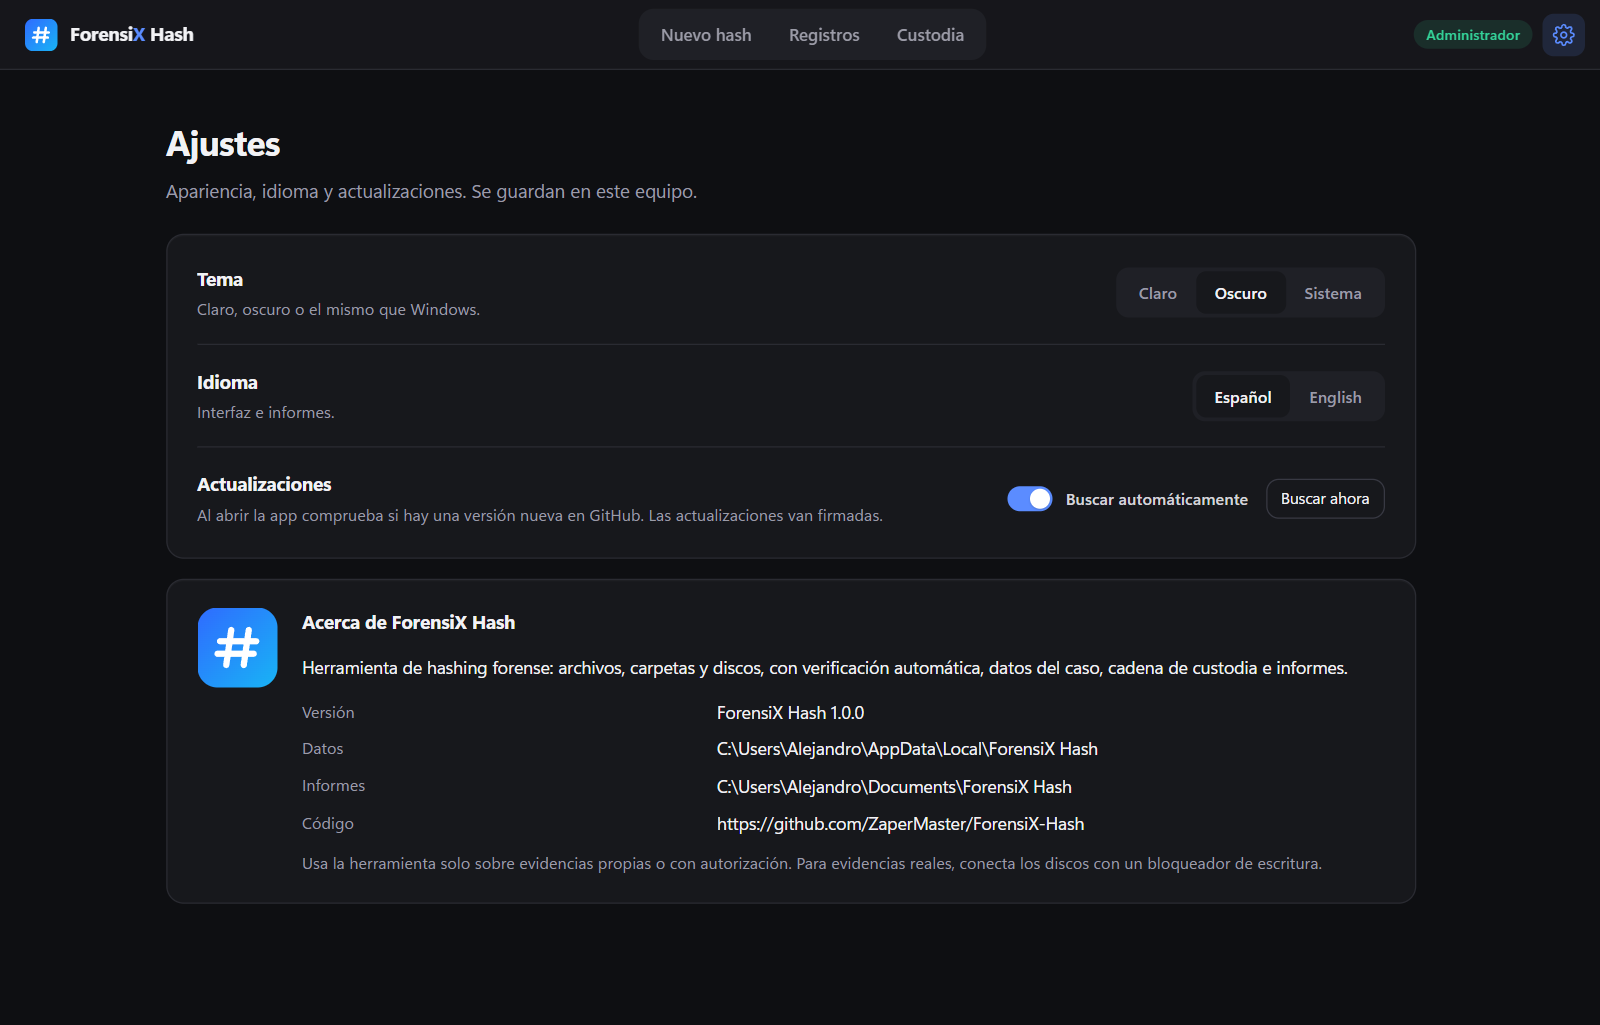
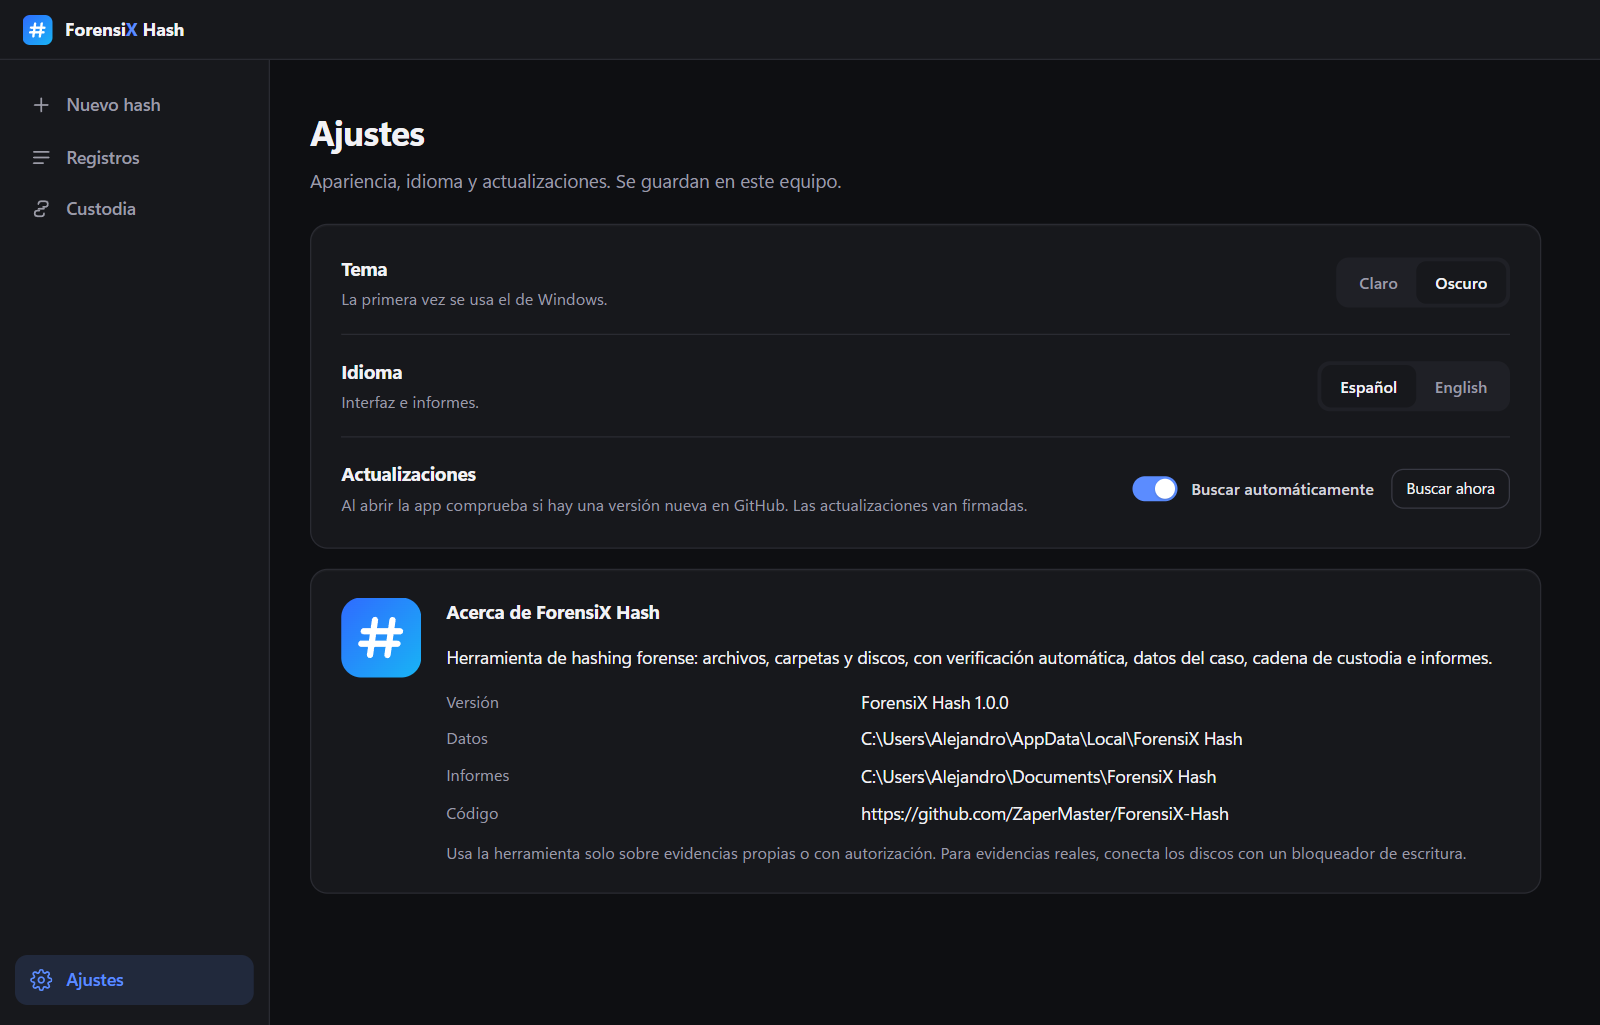
Barra lateral, temas claro/oscuro según Windows y bordes de ventana a juego
- Nuevo hash, Registros y Custodia en una barra lateral; Ajustes abajo.
- Sin la etiqueta de administrador.
- Solo temas claro y oscuro; la primera vez se usa el de Windows.
- La ventana pinta su borde y su fondo con los colores del tema.

diff --git a/web/static/index.html b/web/static/index.html
@@ -7,11 +7,11 @@
   <link rel="icon" href="/static/brand/logo.svg" type="image/svg+xml">
   <link rel="stylesheet" href="/static/css/styles.css">
   <script>
-    // Tema antes de pintar la página, para que no parpadee (claro, oscuro o el del sistema).
+    // Tema antes de pintar la página, para que no parpadee. Sin elegir aún, el de Windows.
     (function () {
-      var theme = "system";
-      try { theme = localStorage.getItem("forensix.theme") || "system"; } catch (e) {}
-      if (theme === "system") theme = matchMedia("(prefers-color-scheme: dark)").matches ? "dark" : "light";
+      var theme = "";
+      try { theme = localStorage.getItem("forensix.theme") || ""; } catch (e) {}
+      if (theme !== "light" && theme !== "dark") theme = matchMedia("(prefers-color-scheme: dark)").matches ? "dark" : "light";
       document.documentElement.dataset.theme = theme;
     })();
   </script>
@@ -29,16 +29,7 @@
     <img class="logo-mark" src="/static/brand/logo.svg" alt="" draggable="false">
     <span class="brand-name">Forensi<b>X</b> Hash</span>
   </div>
-  <nav class="tabs" aria-label="Secciones">
-    <button class="nav active" data-view="new" type="button"><span data-i18n="nav.new">Nuevo hash</span></button>
-    <button class="nav" data-view="history" type="button"><span data-i18n="nav.history">Registros</span></button>
-    <button class="nav" data-view="custody" type="button"><span data-i18n="nav.custody">Custodia</span></button>
-  </nav>
   <div class="titlebar-actions">
-    <span class="admin-pill" id="adminPill" hidden></span>
-    <button class="icon-button nav-settings" data-view="settings" type="button" data-i18n-title="nav.settings" title="Ajustes">
-      <svg viewBox="0 0 24 24"><circle cx="12" cy="12" r="3"/><path d="M19.4 15a1.7 1.7 0 0 0 .3 1.8l.1.1a2 2 0 1 1-2.8 2.8l-.1-.1a1.7 1.7 0 0 0-1.8-.3 1.7 1.7 0 0 0-1 1.5V21a2 2 0 1 1-4 0v-.1a1.7 1.7 0 0 0-1.1-1.5 1.7 1.7 0 0 0-1.8.3l-.1.1a2 2 0 1 1-2.8-2.8l.1-.1a1.7 1.7 0 0 0 .3-1.8 1.7 1.7 0 0 0-1.5-1H3a2 2 0 1 1 0-4h.1a1.7 1.7 0 0 0 1.5-1.1 1.7 1.7 0 0 0-.3-1.8l-.1-.1a2 2 0 1 1 2.8-2.8l.1.1a1.7 1.7 0 0 0 1.8.3H9a1.7 1.7 0 0 0 1-1.5V3a2 2 0 1 1 4 0v.1a1.7 1.7 0 0 0 1 1.5 1.7 1.7 0 0 0 1.8-.3l.1-.1a2 2 0 1 1 2.8 2.8l-.1.1a1.7 1.7 0 0 0-.3 1.8V9a1.7 1.7 0 0 0 1.5 1H21a2 2 0 1 1 0 4h-.1a1.7 1.7 0 0 0-1.5 1z"/></svg>
-    </button>
     <div class="window-controls">
       <button type="button" id="windowMinimize" aria-label="Minimizar"><svg viewBox="0 0 10 10"><path d="M0 5h10"/></svg></button>
       <button type="button" id="windowMaximize" aria-label="Maximizar"><svg viewBox="0 0 10 10"><rect x="0.5" y="0.5" width="9" height="9"/></svg></button>
@@ -55,6 +46,16 @@
 </div>
 
 <div class="layout">
+  <nav class="sidebar" aria-label="Secciones">
+    <button class="nav active" data-view="new" type="button">
+      <svg viewBox="0 0 24 24"><path d="M12 5v14M5 12h14"/></svg><span data-i18n="nav.new">Nuevo hash</span></button>
+    <button class="nav" data-view="history" type="button">
+      <svg viewBox="0 0 24 24"><path d="M4 6h16M4 12h16M4 18h10"/></svg><span data-i18n="nav.history">Registros</span></button>
+    <button class="nav" data-view="custody" type="button">
+      <svg viewBox="0 0 24 24"><path d="M9 7a3 3 0 0 1 3-3h4a3 3 0 0 1 0 6h-2M15 17a3 3 0 0 1-3 3H8a3 3 0 0 1 0-6h2M9 12h6"/></svg><span data-i18n="nav.custody">Custodia</span></button>
+    <button class="nav nav-settings" data-view="settings" type="button">
+      <svg viewBox="0 0 24 24"><circle cx="12" cy="12" r="3"/><path d="M19.4 15a1.7 1.7 0 0 0 .3 1.8l.1.1a2 2 0 1 1-2.8 2.8l-.1-.1a1.7 1.7 0 0 0-1.8-.3 1.7 1.7 0 0 0-1 1.5V21a2 2 0 1 1-4 0v-.1a1.7 1.7 0 0 0-1.1-1.5 1.7 1.7 0 0 0-1.8.3l-.1.1a2 2 0 1 1-2.8-2.8l.1-.1a1.7 1.7 0 0 0 .3-1.8 1.7 1.7 0 0 0-1.5-1H3a2 2 0 1 1 0-4h.1a1.7 1.7 0 0 0 1.5-1.1 1.7 1.7 0 0 0-.3-1.8l-.1-.1a2 2 0 1 1 2.8-2.8l.1.1a1.7 1.7 0 0 0 1.8.3H9a1.7 1.7 0 0 0 1-1.5V3a2 2 0 1 1 4 0v.1a1.7 1.7 0 0 0 1 1.5 1.7 1.7 0 0 0 1.8-.3l.1-.1a2 2 0 1 1 2.8 2.8l-.1.1a1.7 1.7 0 0 0-.3 1.8V9a1.7 1.7 0 0 0 1.5 1H21a2 2 0 1 1 0 4h-.1a1.7 1.7 0 0 0-1.5 1z"/></svg><span data-i18n="nav.settings">Ajustes</span></button>
+  </nav>
   <main id="main">
     <!-- NUEVO HASH -->
     <section class="view active" id="view-new">
@@ -282,11 +283,10 @@
 
       <div class="card settings">
         <div class="setting">
-          <div><h2 data-i18n="settings.theme">Tema</h2><p class="hint" data-i18n="settings.theme_hint">Claro, oscuro o el mismo que Windows.</p></div>
+          <div><h2 data-i18n="settings.theme">Tema</h2><p class="hint" data-i18n="settings.theme_hint">La primera vez se usa el de Windows.</p></div>
           <div class="segmented" id="themeChoice" role="radiogroup">
             <button type="button" data-theme-choice="light" data-i18n="settings.light">Claro</button>
             <button type="button" data-theme-choice="dark" data-i18n="settings.dark">Oscuro</button>
-            <button type="button" data-theme-choice="system" data-i18n="settings.system">Sistema</button>
           </div>
         </div>
         <div class="setting">

diff --git a/web/static/css/styles.css b/web/static/css/styles.css
@@ -75,29 +75,29 @@ svg { width: 18px; height: 18px; fill: none; stroke: currentColor; stroke-width:
 
 /* --- Cabecera --- */
 .titlebar {
-  display: grid; grid-template-columns: 1fr auto 1fr; align-items: center; flex: none;
-  height: 56px; padding-left: 20px; background: var(--titlebar); border-bottom: 1px solid var(--border);
-  backdrop-filter: blur(14px); user-select: none; position: relative; z-index: 5;
+  display: flex; align-items: center; justify-content: space-between; flex: none;
+  height: 48px; padding-left: 18px; background: var(--surface); border-bottom: 1px solid var(--border);
+  user-select: none; position: relative; z-index: 5;
 }
 .brand { display: flex; align-items: center; gap: 10px; }
-.logo-mark { width: 26px; height: 26px; }
-.brand-name { font-weight: 650; font-size: 15px; letter-spacing: -.1px; }
+.logo-mark { width: 24px; height: 24px; }
+.brand-name { font-weight: 650; font-size: 14.5px; letter-spacing: -.1px; }
 .brand-name b { color: var(--accent); font-weight: 750; }
-
-.tabs { display: flex; gap: 2px; padding: 4px; background: var(--surface-2); border-radius: 12px; }
-.nav {
-  border: 0; border-radius: 9px; background: transparent; color: var(--muted);
-  padding: 6px 14px; font-size: 13.5px; font-weight: 500;
-}
-.nav:hover { color: var(--text); }
-.nav.active { background: var(--surface); color: var(--text); box-shadow: var(--shadow-sm), 0 0 0 1px var(--border); }
-
 .titlebar-actions { display: flex; align-items: center; justify-content: flex-end; gap: 8px; padding-right: 12px; height: 100%; }
-.icon-button { width: 34px; height: 34px; padding: 0; display: grid; place-items: center; border-radius: 9px; background: transparent; color: var(--muted); border: 0; }
-.icon-button:hover { background: var(--surface-2); color: var(--text); }
-.icon-button.active { background: var(--accent-soft); color: var(--accent); }
-.admin-pill { font-size: 11.5px; font-weight: 600; padding: 3px 10px; border-radius: 99px; background: var(--warn-soft); color: var(--warn); }
-.admin-pill.on { background: var(--ok-soft); color: var(--ok); }
+
+/* --- Barra lateral --- */
+.sidebar {
+  width: 216px; flex: none; display: flex; flex-direction: column; gap: 2px; padding: 16px 12px;
+  background: var(--surface); border-right: 1px solid var(--border);
+}
+.nav {
+  display: flex; align-items: center; gap: 11px; width: 100%; padding: 9px 12px; text-align: left;
+  border: 0; border-radius: 10px; background: transparent; color: var(--muted); font-size: 14px; font-weight: 500;
+}
+.nav svg { width: 18px; height: 18px; }
+.nav:hover { background: var(--surface-2); color: var(--text); }
+.nav.active { background: var(--accent-soft); color: var(--accent); font-weight: 600; }
+.nav-settings { margin-top: auto; }
 
 .window-controls { display: none; align-self: stretch; margin-right: -12px; margin-left: 4px; }
 .desktop .window-controls { display: flex; }
@@ -398,10 +398,9 @@ table.files td:nth-child(2) { font-variant-numeric: tabular-nums; color: var(--m
 .toast { position: fixed; bottom: 24px; left: 50%; transform: translateX(-50%); background: var(--text); color: var(--bg); padding: 10px 18px; border-radius: 12px; z-index: 50; box-shadow: var(--shadow-lg); font-weight: 500; }
 
 @media (max-width: 900px) {
-  .titlebar { grid-template-columns: auto 1fr auto; gap: 8px; padding-left: 12px; }
-  .brand-name { display: none; }
-  .tabs { justify-self: center; }
-  .nav { padding: 6px 9px; font-size: 12.5px; }
+  .sidebar { width: 64px; padding: 12px 8px; }
+  .nav { justify-content: center; padding: 10px; }
+  .nav span { display: none; }
   main { padding: 22px 16px 40px; }
   .kinds, .grid, .record-grid, .algorithms { grid-template-columns: 1fr; }
   .wizard-steps li b { display: none; }

diff --git a/web/static/js/app.js b/web/static/js/app.js
@@ -110,8 +110,7 @@ function show(view) {
     : view === "progress" && state.job ? `#job=${state.job.id}` : view === "new" ? "" : `#view=${view}`;
   history.replaceState(null, "", link || location.pathname);
   $$(".view").forEach(section => section.classList.toggle("active", section.id === `view-${view}`));
-  $$(".tabs .nav").forEach(button => button.classList.toggle("active", button.dataset.view === view));
-  $(".nav-settings").classList.toggle("active", view === "settings");
+  $$(".sidebar .nav").forEach(button => button.classList.toggle("active", button.dataset.view === view));
   $("#main").scrollTop = 0;
   if (view === "history") loadHistory();
   if (view === "custody") loadCustody();
@@ -740,14 +739,20 @@ async function loadCustody() {
 
 const darkQuery = matchMedia("(prefers-color-scheme: dark)");
 
-function applyTheme(choice) {
-  const theme = choice === "system" ? (darkQuery.matches ? "dark" : "light") : choice;
-  document.documentElement.dataset.theme = theme;
-  $$("[data-theme-choice]").forEach(button => button.classList.toggle("active", button.dataset.themeChoice === choice));
+// Claro u oscuro. Hasta que se elija uno en Ajustes, se usa el de Windows.
+function themeChoice() {
+  const saved = recall("theme");
+  return saved === "light" || saved === "dark" ? saved : "";
 }
 
-const themeChoice = () => recall("theme") || "system";
-darkQuery.addEventListener("change", () => { if (themeChoice() === "system") applyTheme("system"); });
+function applyTheme(choice) {
+  const theme = choice || (darkQuery.matches ? "dark" : "light");
+  document.documentElement.dataset.theme = theme;
+  $$("[data-theme-choice]").forEach(button => button.classList.toggle("active", button.dataset.themeChoice === theme));
+  state.desktop?.set_theme(theme);  // Bordes y fondo de la ventana del mismo color
+}
+
+darkQuery.addEventListener("change", () => { if (!themeChoice()) applyTheme(""); });
 $$("[data-theme-choice]").forEach(button => button.addEventListener("click", () => {
   remember("theme", button.dataset.themeChoice);
   applyTheme(button.dataset.themeChoice);
@@ -804,10 +809,6 @@ function renderAbout() {
     [t("about.reports"), recall("output") || state.info.reports_folder],
     [t("about.repo"), state.info.repo],
   ]);
-  const pill = $("#adminPill");
-  pill.hidden = state.info.os !== "nt";
-  pill.classList.toggle("on", state.info.admin);
-  pill.textContent = t(state.info.admin ? "admin.on" : "admin.off");
 }
 
 document.addEventListener("langchange", () => {
@@ -825,6 +826,7 @@ document.addEventListener("langchange", () => {
 
 window.addEventListener("pywebviewready", () => {
   state.desktop = window.pywebview.api;
+  state.desktop.set_theme(document.documentElement.dataset.theme);
   if (state.kind === "disk") loadDisks();
 });
 

diff --git a/web/static/js/i18n.js b/web/static/js/i18n.js
@@ -16,8 +16,8 @@ const I18N = (() => {
     "new.verify_note": "When it finishes it is verified automatically: the evidence is read a second time and the hashes must match.",
     "new.start": "Hash and verify",
     "settings.title": "Settings", "settings.lead": "Appearance, language and updates. Saved on this computer.",
-    "settings.theme": "Theme", "settings.theme_hint": "Light, dark or the same as Windows.",
-    "settings.light": "Light", "settings.dark": "Dark", "settings.system": "System",
+    "settings.theme": "Theme", "settings.theme_hint": "The first time, the Windows theme is used.",
+    "settings.light": "Light", "settings.dark": "Dark",
     "settings.language": "Language", "settings.language_hint": "Interface and reports.",
     "settings.updates": "Updates",
     "settings.updates_hint": "When the app opens it checks GitHub for a new version. Updates are signed.",

diff --git a/desktop/window.py b/desktop/window.py
@@ -23,8 +23,11 @@ from web.server import app
 
 
 APP_USER_MODEL_ID = "ForensiX.Hash.Desktop"
-BACKGROUND_COLOR = "#f6f6f8"  # Igual que --bg (tema claro) en static/css/styles.css
-BORDER_COLOR = "#d4d4dc"  # Igual que --border-strong
+# Colores de la ventana por tema: igual que --bg y --border-strong en static/css/styles.css
+THEMES = {
+    "light": {"background": "#f6f6f8", "border": "#d4d4dc", "dark": 0},
+    "dark": {"background": "#0e0f12", "border": "#2a2b32", "dark": 1},
+}
 WINDOW_SIZE = (1240, 860)
 MIN_WINDOW_SIZE = (820, 600)
 SERVER_START_TIMEOUT = 15
@@ -59,27 +62,45 @@ def set_app_user_model_id() -> None:
         pass
 
 
-def style_frame(hwnd: int) -> None:
+def windows_theme() -> str:
+    """'dark' o 'light' según el modo de aplicaciones de Windows (la primera vez se usa ese)."""
+
+    try:
+        import winreg
+
+        with winreg.OpenKey(winreg.HKEY_CURRENT_USER,
+                            r"Software\Microsoft\Windows\CurrentVersion\Themes\Personalize") as key:
+            return "light" if winreg.QueryValueEx(key, "AppsUseLightTheme")[0] else "dark"
+    except OSError:
+        return "light"
+
+
+def _dwm_attribute(hwnd: int, attribute: int, value: int) -> None:
+    dwm_set_attribute = ctypes.windll.dwmapi.DwmSetWindowAttribute
+    dwm_set_attribute.argtypes = [wintypes.HWND, wintypes.DWORD, ctypes.c_void_p, wintypes.DWORD]
+    data = ctypes.c_int(value)
+    dwm_set_attribute(hwnd, attribute, ctypes.byref(data), ctypes.sizeof(data))
+
+
+def paint_frame(hwnd: int, theme: str) -> None:
+    """Borde fino y modo oscuro de Windows con los colores del tema de la app."""
+
+    DWMWA_USE_IMMERSIVE_DARK_MODE, DWMWA_BORDER_COLOR = 20, 34
+    colors = THEMES.get(theme, THEMES["light"])
+    _dwm_attribute(hwnd, DWMWA_USE_IMMERSIVE_DARK_MODE, colors["dark"])
+    _dwm_attribute(hwnd, DWMWA_BORDER_COLOR, _colorref(colors["border"]))
+
+
+def style_frame(hwnd: int, theme: str) -> None:
     """Esquinas redondeadas y borde fino (Windows 11) en la ventana sin marco.
 
     También permite minimizarla desde la barra de tareas, que en una ventana
     sin marco solo funciona si tiene el estilo WS_MINIMIZEBOX.
     """
 
-    dwm_set_attribute = ctypes.windll.dwmapi.DwmSetWindowAttribute
-    dwm_set_attribute.argtypes = [wintypes.HWND, wintypes.DWORD, ctypes.c_void_p, wintypes.DWORD]
-
-    def set_attribute(attribute: int, value: int) -> None:
-        data = ctypes.c_int(value)
-        dwm_set_attribute(hwnd, attribute, ctypes.byref(data), ctypes.sizeof(data))
-
-    DWMWA_USE_IMMERSIVE_DARK_MODE = 20
     DWMWA_WINDOW_CORNER_PREFERENCE, DWMWCP_ROUND = 33, 2
-    DWMWA_BORDER_COLOR = 34
-
-    set_attribute(DWMWA_USE_IMMERSIVE_DARK_MODE, 0)
-    set_attribute(DWMWA_WINDOW_CORNER_PREFERENCE, DWMWCP_ROUND)
-    set_attribute(DWMWA_BORDER_COLOR, _colorref(BORDER_COLOR))
+    _dwm_attribute(hwnd, DWMWA_WINDOW_CORNER_PREFERENCE, DWMWCP_ROUND)
+    paint_frame(hwnd, theme)
 
     GWL_STYLE, WS_MINIMIZEBOX, WS_SYSMENU = -16, 0x00020000, 0x00080000
     user32 = ctypes.windll.user32
@@ -119,11 +140,11 @@ def find_window_handle(window) -> int | None:
         return ctypes.windll.user32.FindWindowW(None, APP_NAME) or None
 
 
-def on_window_shown(window) -> None:
+def on_window_shown(window, theme: str) -> None:
     hwnd = find_window_handle(window)
     if not hwnd:
         return
-    for customize in (style_frame, lambda h: set_window_icon(h, ICON_PATH)):
+    for customize in (lambda h: style_frame(h, theme), lambda h: set_window_icon(h, ICON_PATH)):
         try:
             customize(hwnd)
         except Exception:
@@ -268,6 +289,28 @@ class DesktopApi:
             return None
         return selection if isinstance(selection, str) else selection[0]
 
+    def set_theme(self, theme: str) -> None:
+        """La interfaz avisa al cambiar de tema: borde y fondo de la ventana a juego."""
+
+        if theme not in THEMES:
+            return
+        hwnd = find_window_handle(self._window)
+        if hwnd:
+            try:
+                paint_frame(hwnd, theme)
+            except OSError:
+                pass
+
+        def repaint():
+            from System.Drawing import ColorTranslator
+
+            self._window.native.BackColor = ColorTranslator.FromHtml(THEMES[theme]["background"])
+
+        try:
+            self._on_ui_thread(repaint)
+        except Exception:
+            pass  # Detalle estético: nunca debe romper la interfaz
+
     def start_maximized(self) -> bool:
         """La app se abre a pantalla completa (sin tapar la barra de tareas)."""
 
@@ -402,6 +445,7 @@ def main() -> None:
     server, thread = start_server()
 
     try:
+        theme = windows_theme()
         base_url = f"http://127.0.0.1:{server_port(server)}"
         controls = DesktopApi(base_url)
         window = webview.create_window(
@@ -411,13 +455,13 @@ def main() -> None:
             width=WINDOW_SIZE[0],
             height=WINDOW_SIZE[1],
             min_size=MIN_WINDOW_SIZE,
-            background_color=BACKGROUND_COLOR,
+            background_color=THEMES[theme]["background"],
             frameless=True,
             easy_drag=False,
             shadow=True,
         )
         controls.attach(window)
-        window.events.shown += lambda: on_window_shown(window)
+        window.events.shown += lambda: on_window_shown(window, theme)
         webview.start(gui="edgechromium", debug=False, icon=str(ICON_PATH))
 
         if not window.events.shown.is_set():

diff --git a/CHANGELOG.md b/CHANGELOG.md
@@ -15,5 +15,5 @@ Primera versión estable.
   ruta), con archivos añadidos, eliminados y modificados en las carpetas.
 - **Informe PDF** como comprobante en la carpeta elegida (nunca dentro de la evidencia), en español o inglés.
 - **Registros sellados** y **cadena de custodia** encadenada por hashes.
-- **Ajustes**: tema claro, oscuro o del sistema; idioma; **actualizaciones automáticas firmadas** (Ed25519).
+- **Ajustes**: tema claro u oscuro (la primera vez, el de Windows); idioma; **actualizaciones automáticas firmadas** (Ed25519).
 - App de escritorio para Windows a pantalla completa, versión web local y línea de comandos.

diff --git a/README.md b/README.md
@@ -76,7 +76,7 @@ Después, desde **Registros**, se puede volver a verificar cuando se quiera (otr
   se borra o edita uno, la cadena se rompe y se ve en qué punto.
 
 **Ajustes**
-- **Tema** claro, oscuro o el del sistema; **idioma** español o inglés.
+- **Tema** claro u oscuro (la primera vez, el de Windows) e **idioma** español o inglés.
 - **Actualizaciones automáticas firmadas**: al abrir, la app mira si hay una versión nueva en GitHub; se instala con un
   clic solo si la **firma Ed25519** y el SHA-256 del `.exe` son correctos. Se puede desactivar.
 - La app de escritorio se abre a **pantalla completa**.
